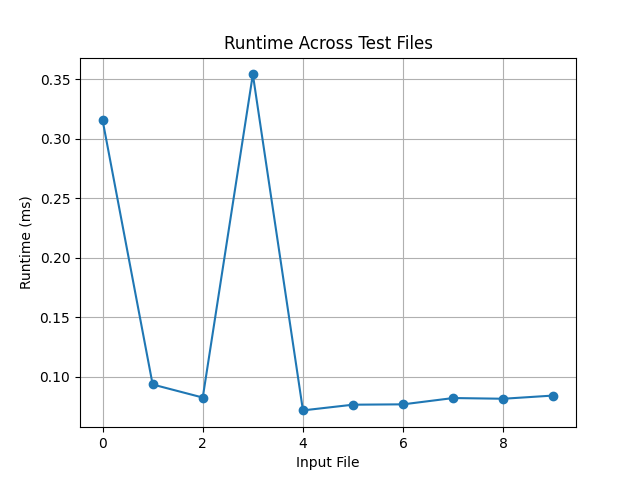
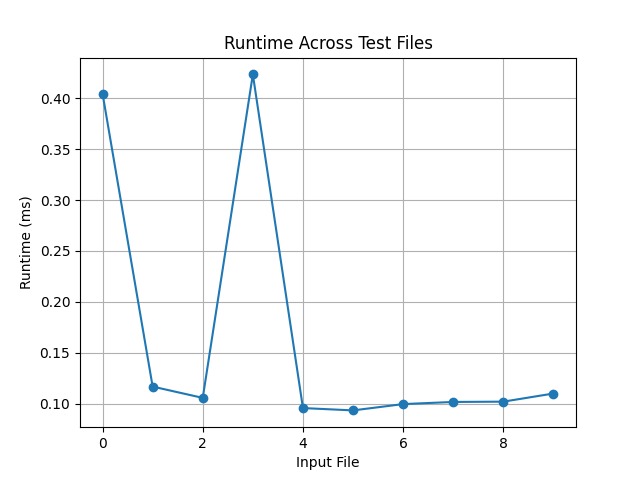
fixed instructions

diff --git a/Assignment3/tests/main.py b/Assignment3/tests/main.py
@@ -77,8 +77,9 @@ def testTime():
     plt.ylabel("Runtime (ms)")
     plt.title("Runtime Across Test Files")
     plt.grid(True)
-    #plt.show()
+    
     plt.savefig('Q1/output/output.png')
+    plt.show()
 
     return results
 
@@ -89,7 +90,12 @@ def testTime():
 
 if __name__ == "__main__":
 
-    results = testTime()
+    K, charValues, A, B = readInputFile("tests/Input.txt")
+
+    maxValue, subseq = findSubString(K, charValues, A, B)
+
+    print(maxValue)
+    print(subseq)
 
     
 

diff --git a/Assignment3/README.md b/Assignment3/README.md
@@ -5,11 +5,9 @@ Connor McFarlin - UFID: 3892-1501
 No compiling/building needed. The only dependencies used are glob, time, and matplotlib, all built-in libraries (pip install matplotlib may be needed).
 
 Input and Output Format:
-Run the program by directing an input file with "python main.py < input.txt" (make sure you are in the Assignment3 src directory and that you're using a command prompt terminal, not powershell)
-You can also just run the script and input with correct format into the terminal line like:
-"2
-1 
-2"
+Run the program in the terminal "python tests\main.py" and it will read the input in "Input.txt" and output the max possible value and the substring that produces it. (make sure you are in the Assignment3 src directory and that you're using a command prompt terminal, not powershell)
+
+
 
 The results are pinted out as well as put into an output.txt file.
 
@@ -21,6 +19,7 @@ Assumptions:
 
 Solutions to the Written Component:
 Question 1:
+The Graph is "output.png" in the output file in the Q1 file. The inputs used to generate it are in the input file of the Q1 file.
 
 Question 2:
 Let OPT(i,j) represent the maximum total value of any common subsequence between the prefixes A[1..i] and B[1..j], where the value of a subsequence is the sum of the values of its characters.
